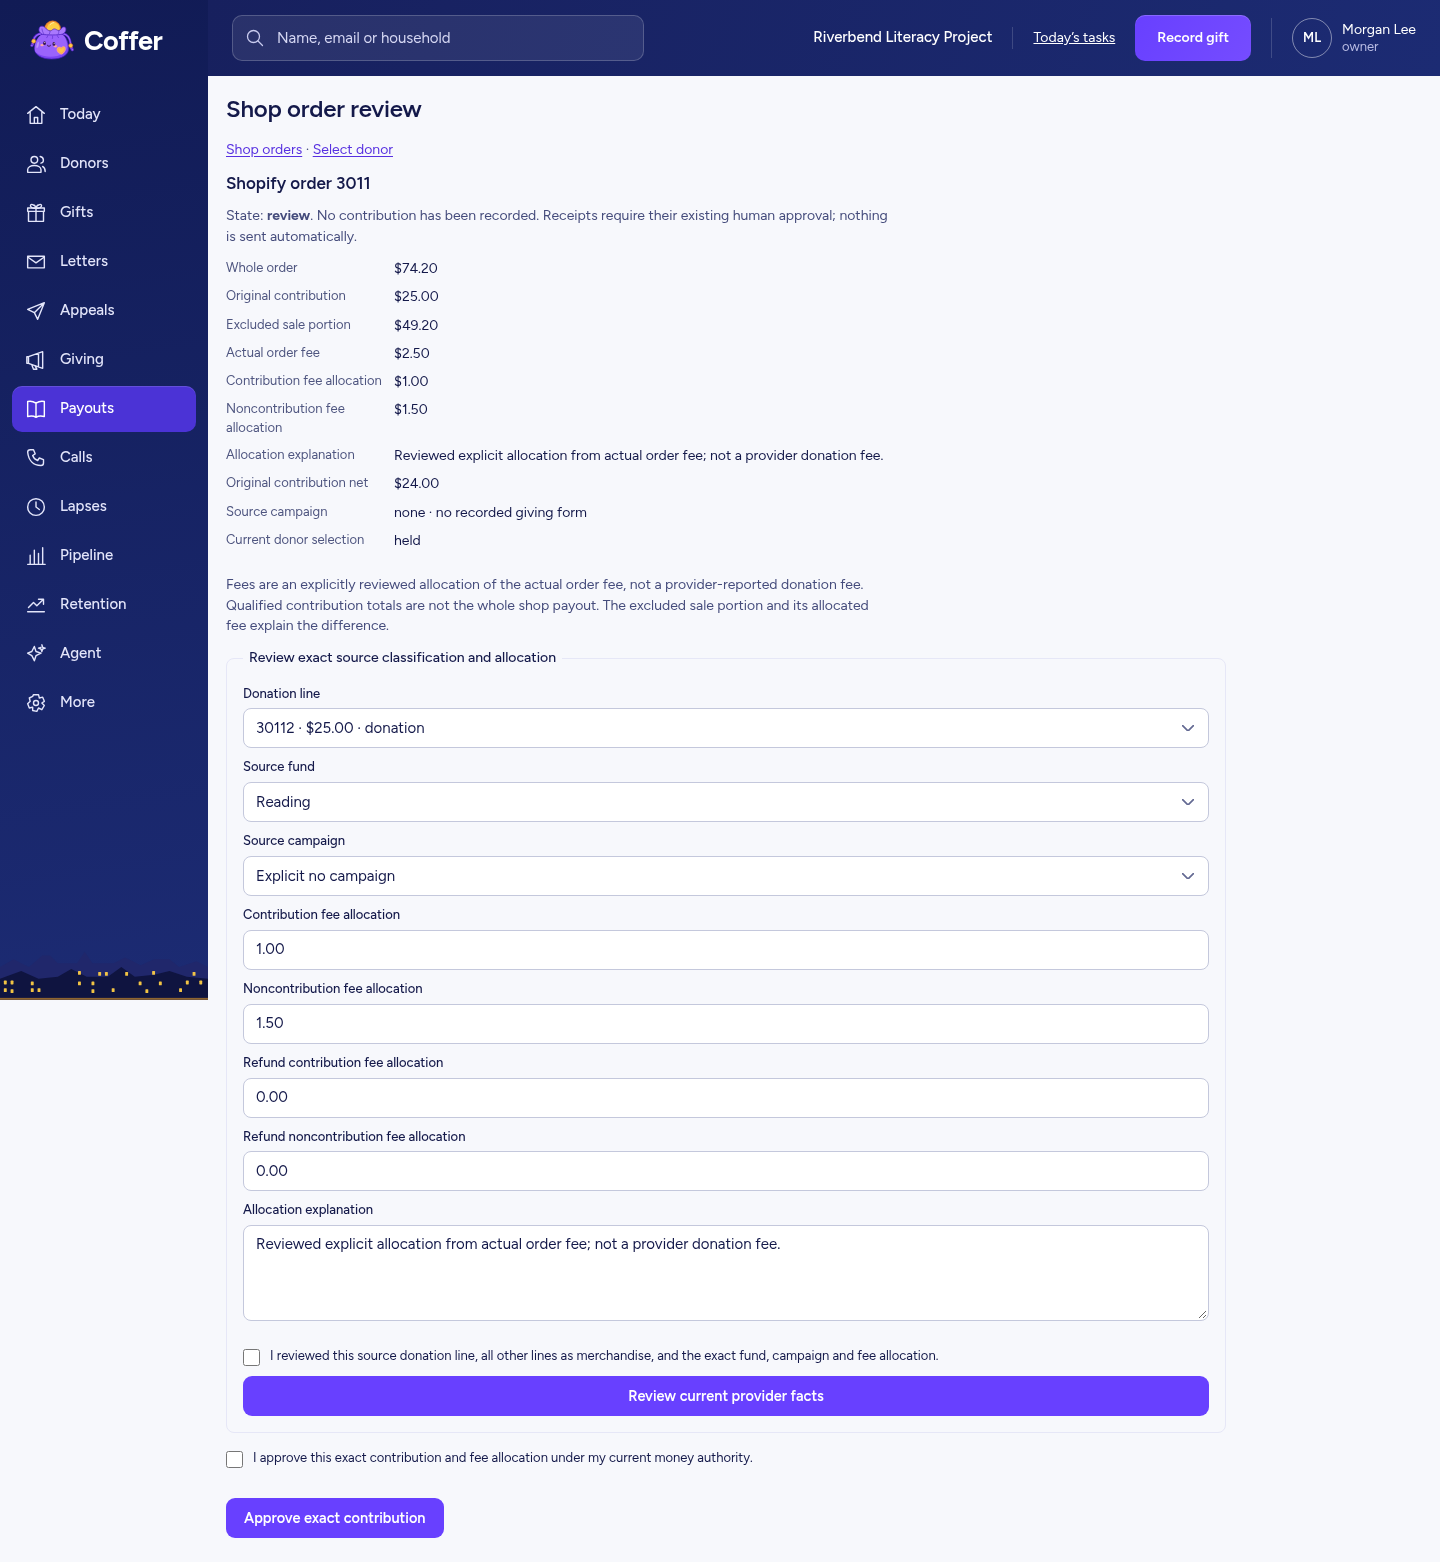
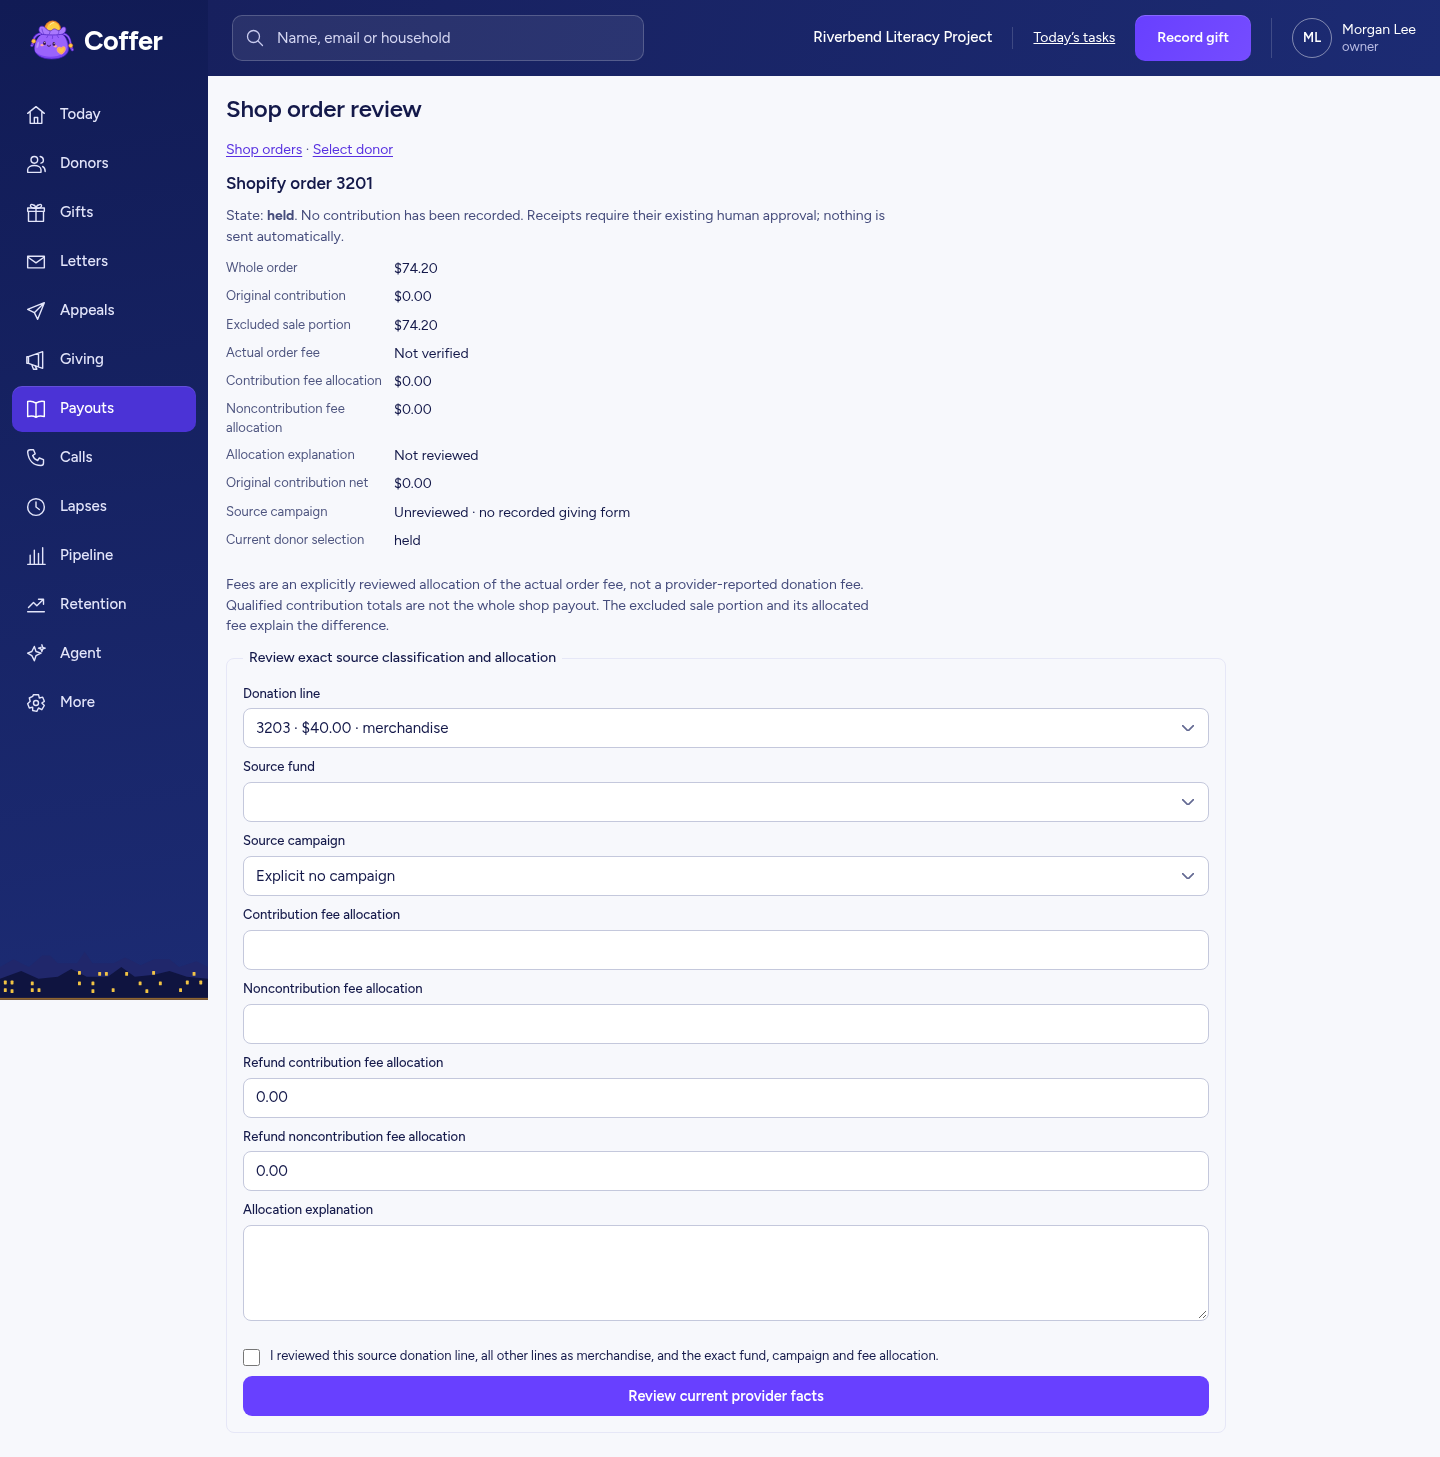
Reports for sx-coffer-c-f174 [skip ci]

diff --git a/files/REPORT.md b/files/REPORT.md
@@ -76,9 +76,9 @@ A retained Benevity browser preview timed out in the combined local wrapper. The
 
 ## Terminal product provenance and probes
 
-Product head: 8f43ff266c42e75d4cf4551c87dc00c0d32eb781, branch cloud/sx-coffer-c-f174, pushed successfully. No PR is required: Verify has a branch-push entry point. Branch Verify 42508602256 is discovered on this exact SHA (push event); its initial state is in_progress. RECEIPT.json records later observations. Starting main remains 73ba072819742dc675195fa3f9c5f772d49fecf0, so this is not landed. Its existing main Verify 42501793766 and Run site 42501793893 are successful; they are not claimed as this candidate's proof.
+Product head: ef73001250888e694b3fc9106270ef353d89ed5d, branch cloud/sx-coffer-c-f174, pushed successfully. No PR is required: Verify has a branch-push entry point. Branch Verify 42510194590 is discovered on this exact SHA (push event); its initial state is in_progress. RECEIPT.json records later observations. Starting main remains 73ba072819742dc675195fa3f9c5f772d49fecf0, so this is not landed. Its existing main Verify 42501793766 and Run site 42501793893 are successful; they are not claimed as this candidate's proof.
 
-MECHANICAL lock=node scripts/edition-authoring/cli.mjs lock and check exit=0; views=node scripts/contract-docs.mjs write and check REPORT-004 DATA-004 MOVE-004 MOVE-010 MOVE-012 PAY-006 exit=0, generated views restored; ledger=collectMigrations identity and byte validation exit=0. Typecheck, first-party profile and real application build exit=0. Both candidate commits have fleet author and committer identities and no co-author trailers; all candidate messages, including any side parents, were inspected. No Status row diff exists. Source lock matches the final tree. Complete exact-tree publication scan, historyScanned, findings, main equality and candidate Run site remain unestablished cloud-side and belong to the guarded fleet lander.
+MECHANICAL lock=node scripts/edition-authoring/cli.mjs lock and check exit=0; views=node scripts/contract-docs.mjs write and check REPORT-004 DATA-004 MOVE-004 MOVE-010 MOVE-012 PAY-006 exit=0, generated views restored; ledger=collectMigrations identity and byte validation exit=0. Typecheck, first-party profile and real application build exit=0. All three candidate commits have fleet author and committer identities and no co-author trailers; all candidate messages, including any side parents, were inspected. No Status row diff exists. Source lock matches the final tree. Complete exact-tree publication scan, historyScanned, findings, main equality and candidate Run site remain unestablished cloud-side and belong to the guarded fleet lander.
 
 PROBE PAY-006 1: signed paid-order HTTP with $74.20 source -> held; explicit classification, donor and exact money approval -> one $25 gift and $25 receipt, $49.20 excluded.
 PROBE PAY-006 2: missing settled fees, conflicting allocation and pure merchandise -> held or 409, no new contribution.
@@ -94,3 +94,15 @@ Local payment wrapper: six pass and one non-reproducing preview timeout; the unc
 CLAIM PAY-006 PARTIAL points=none tests=tests/shop-orders-journey.mjs#shopOrdersJourney; tests/shop-orders-browser.mjs#shopOrdersBrowser
 
 The clause's long acceptance sentence includes Stall and charity-priced items, so no whole acceptance sentence is claimed complete. The supported native outcomes and remaining gaps are individually named above. No plan source file was edited; the PAY-006 plan row is the only row advanced in this report.
+
+The final held-state screenshots were refreshed through the one-off HELD-PROBE.mjs public-door probe on ef73001250888e694b3fc9106270ef353d89ed5d. It asserts the actual initial held state, no gift and the $74.20 source before classification, at 1440, and captures the same screen at 1440 and 390. This replaces an earlier screenshot whose filename said held while its order was already in review. No product or permanent assertion changed for this evidence correction.
+
+## Refund-ordering correction on the final head
+
+A real public-door probe on superseded head 8f43ff266c42e75d4cf4551c87dc00c0d32eb781 called the ordinary receipt send after a signed refund observation and before money review. It returned 200 with submitted=1 instead of the required held 409 (only the mail network edge was faked). The actual nonzero reproduction is REFUND-ORDER-REPRO.log. That head is superseded and is not the landing candidate.
+
+The final ef73001250888e694b3fc9106270ef353d89ed5d persists refund_pending independently of provider refresh state. A signed refund immediately voids existing gift and statement documents; native sending, preparation and corrected replacements remain refused while the refund or a source conflict is unresolved. A temporarily stale provider read cannot clear the hold, before or after the original gift exists. Separate exact full-refund approval appends the reversal and clears the hold atomically. The same registered sanity journey now executes both lagging-read cases, receipt send and correction refusals, and the ordinary subsequent full-refund path. It passes on this exact final committed SHA. The retained Stripe refund and receipt-correction journey also passes with the new receipt guards.
+
+The latest branch Verify is 42510194590 for ef73001250888e694b3fc9106270ef353d89ed5d. Earlier Verify 42508602256 is superseded and is never used as proof of the final head. Full clause status and counts remain unchanged.
+
+On the final committed head, the retained payment, donor-match and Benevity wrapper registrations pass together (3 pass, 0 fail), and the unchanged fee-cover journey passes. PAYMENTS-RETAINED-FINAL.log and FEE-COVER.log are the actual outputs. The final head has no pending local command and a clean product checkout.
